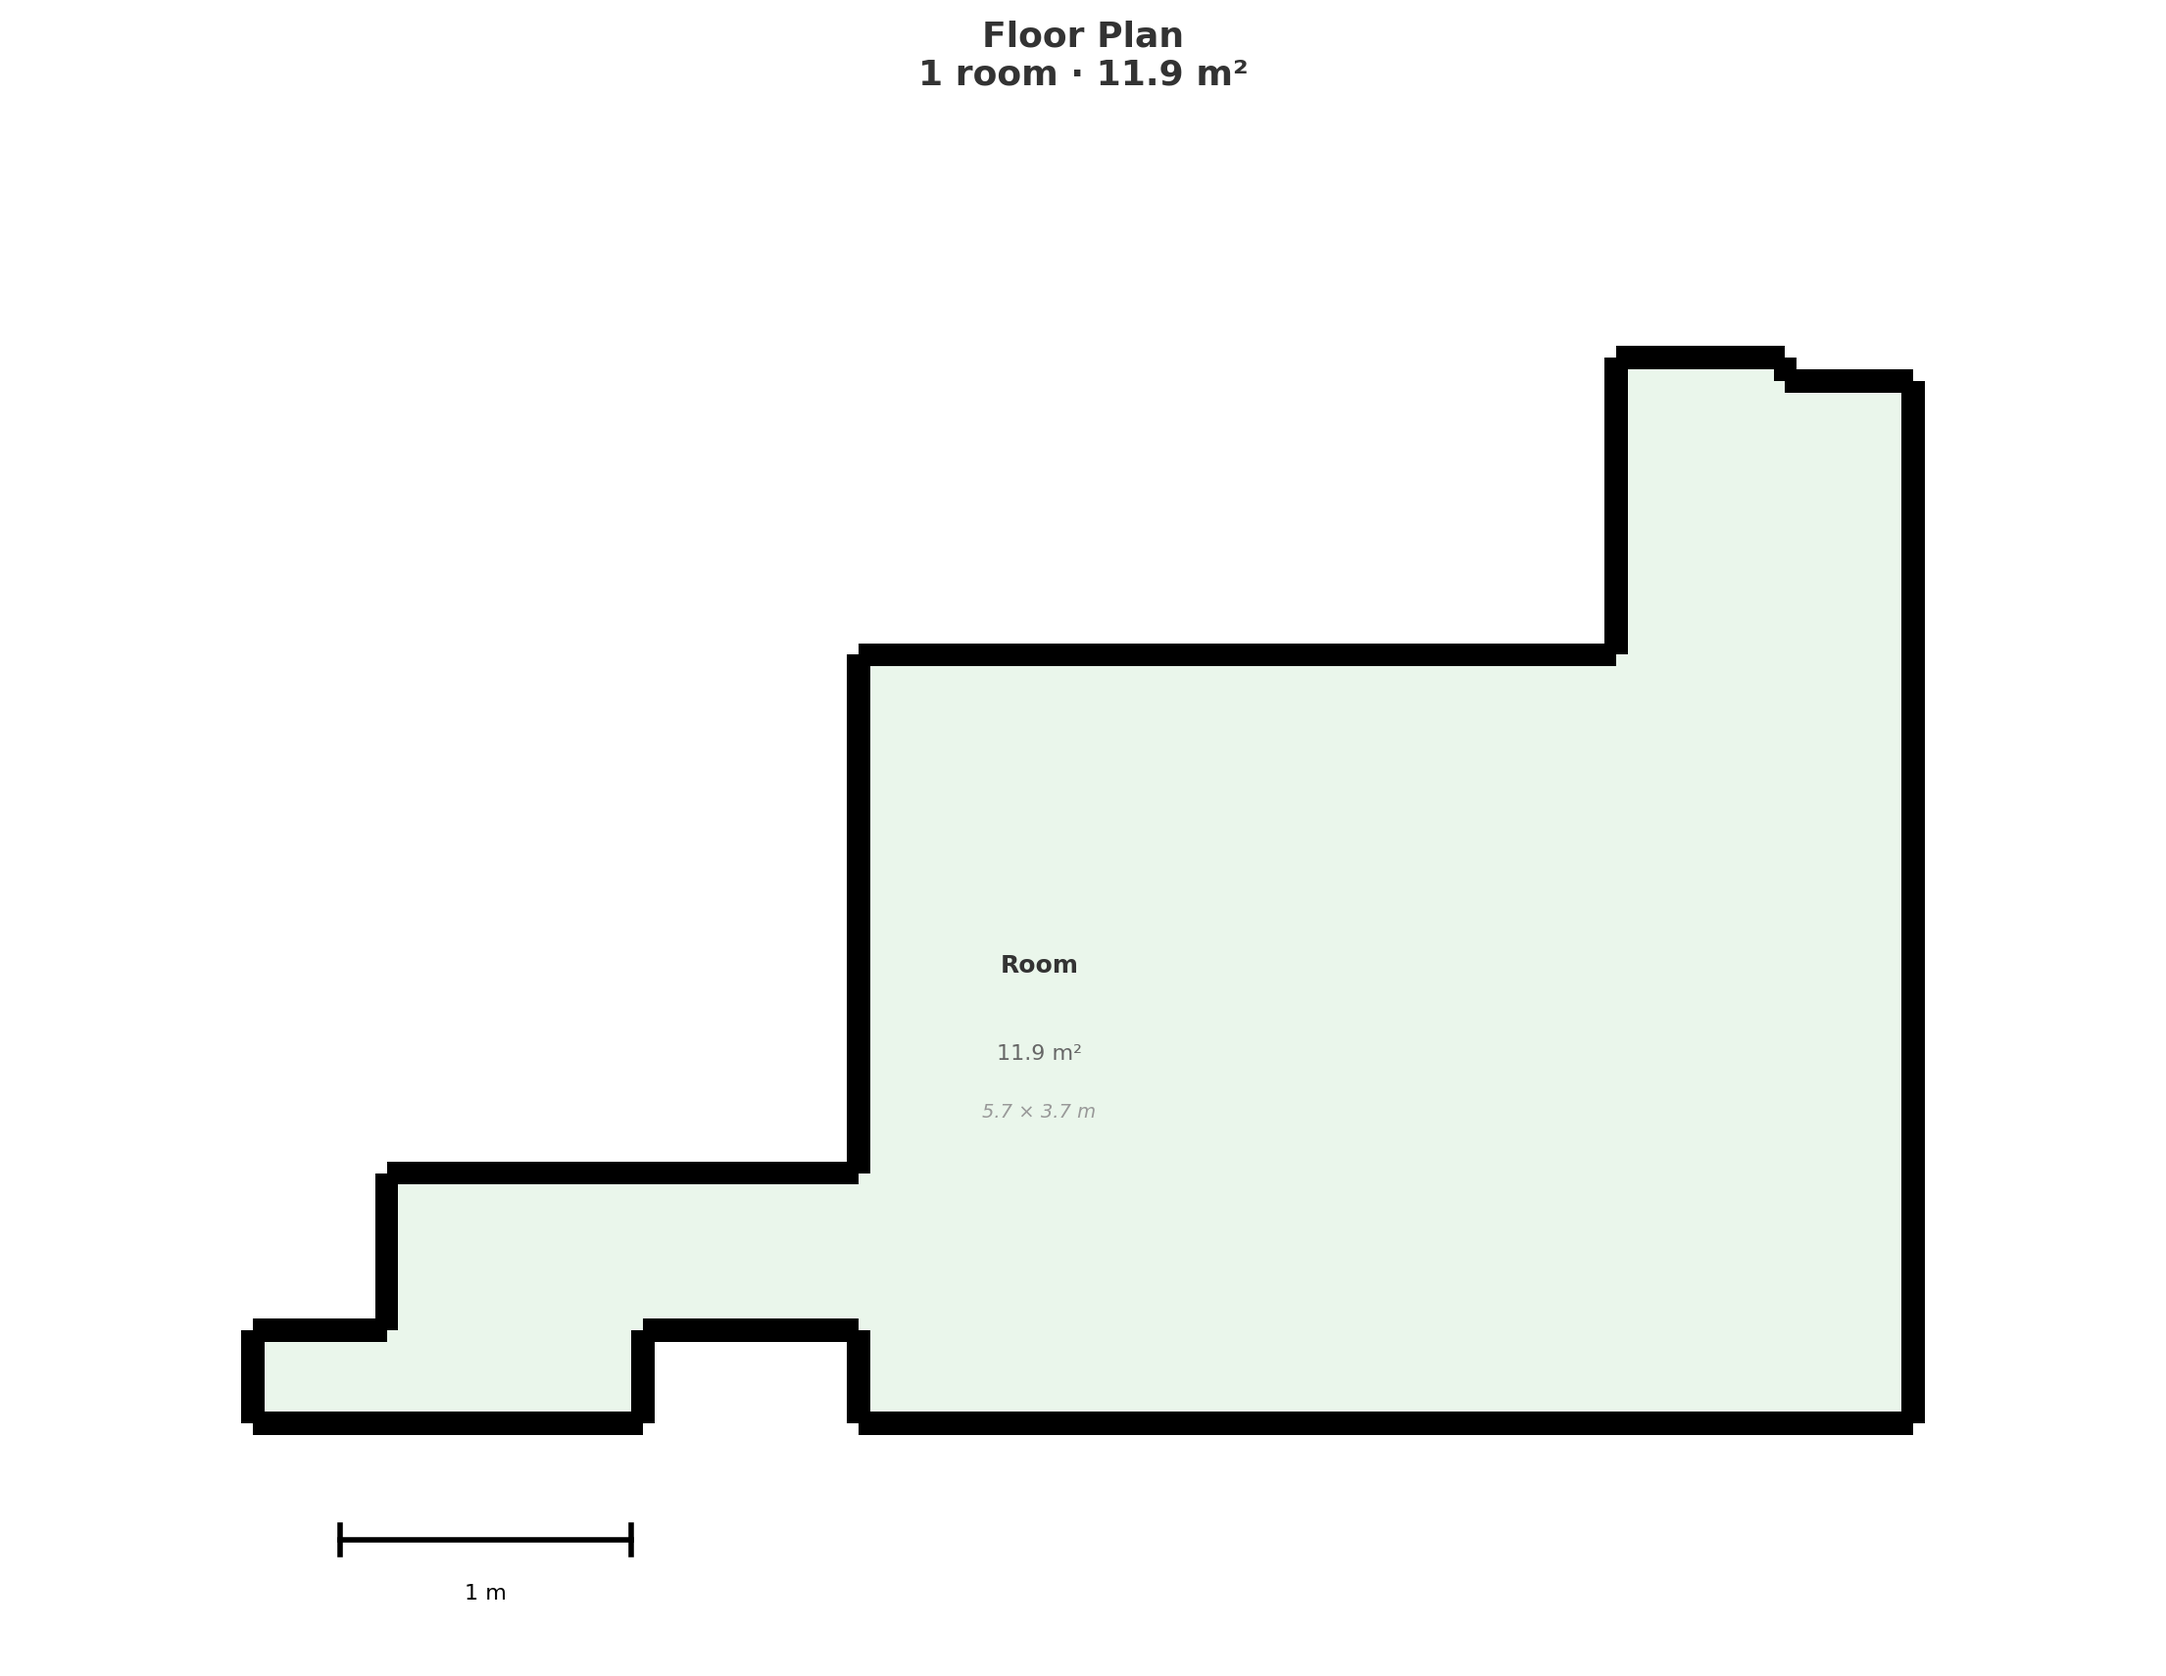
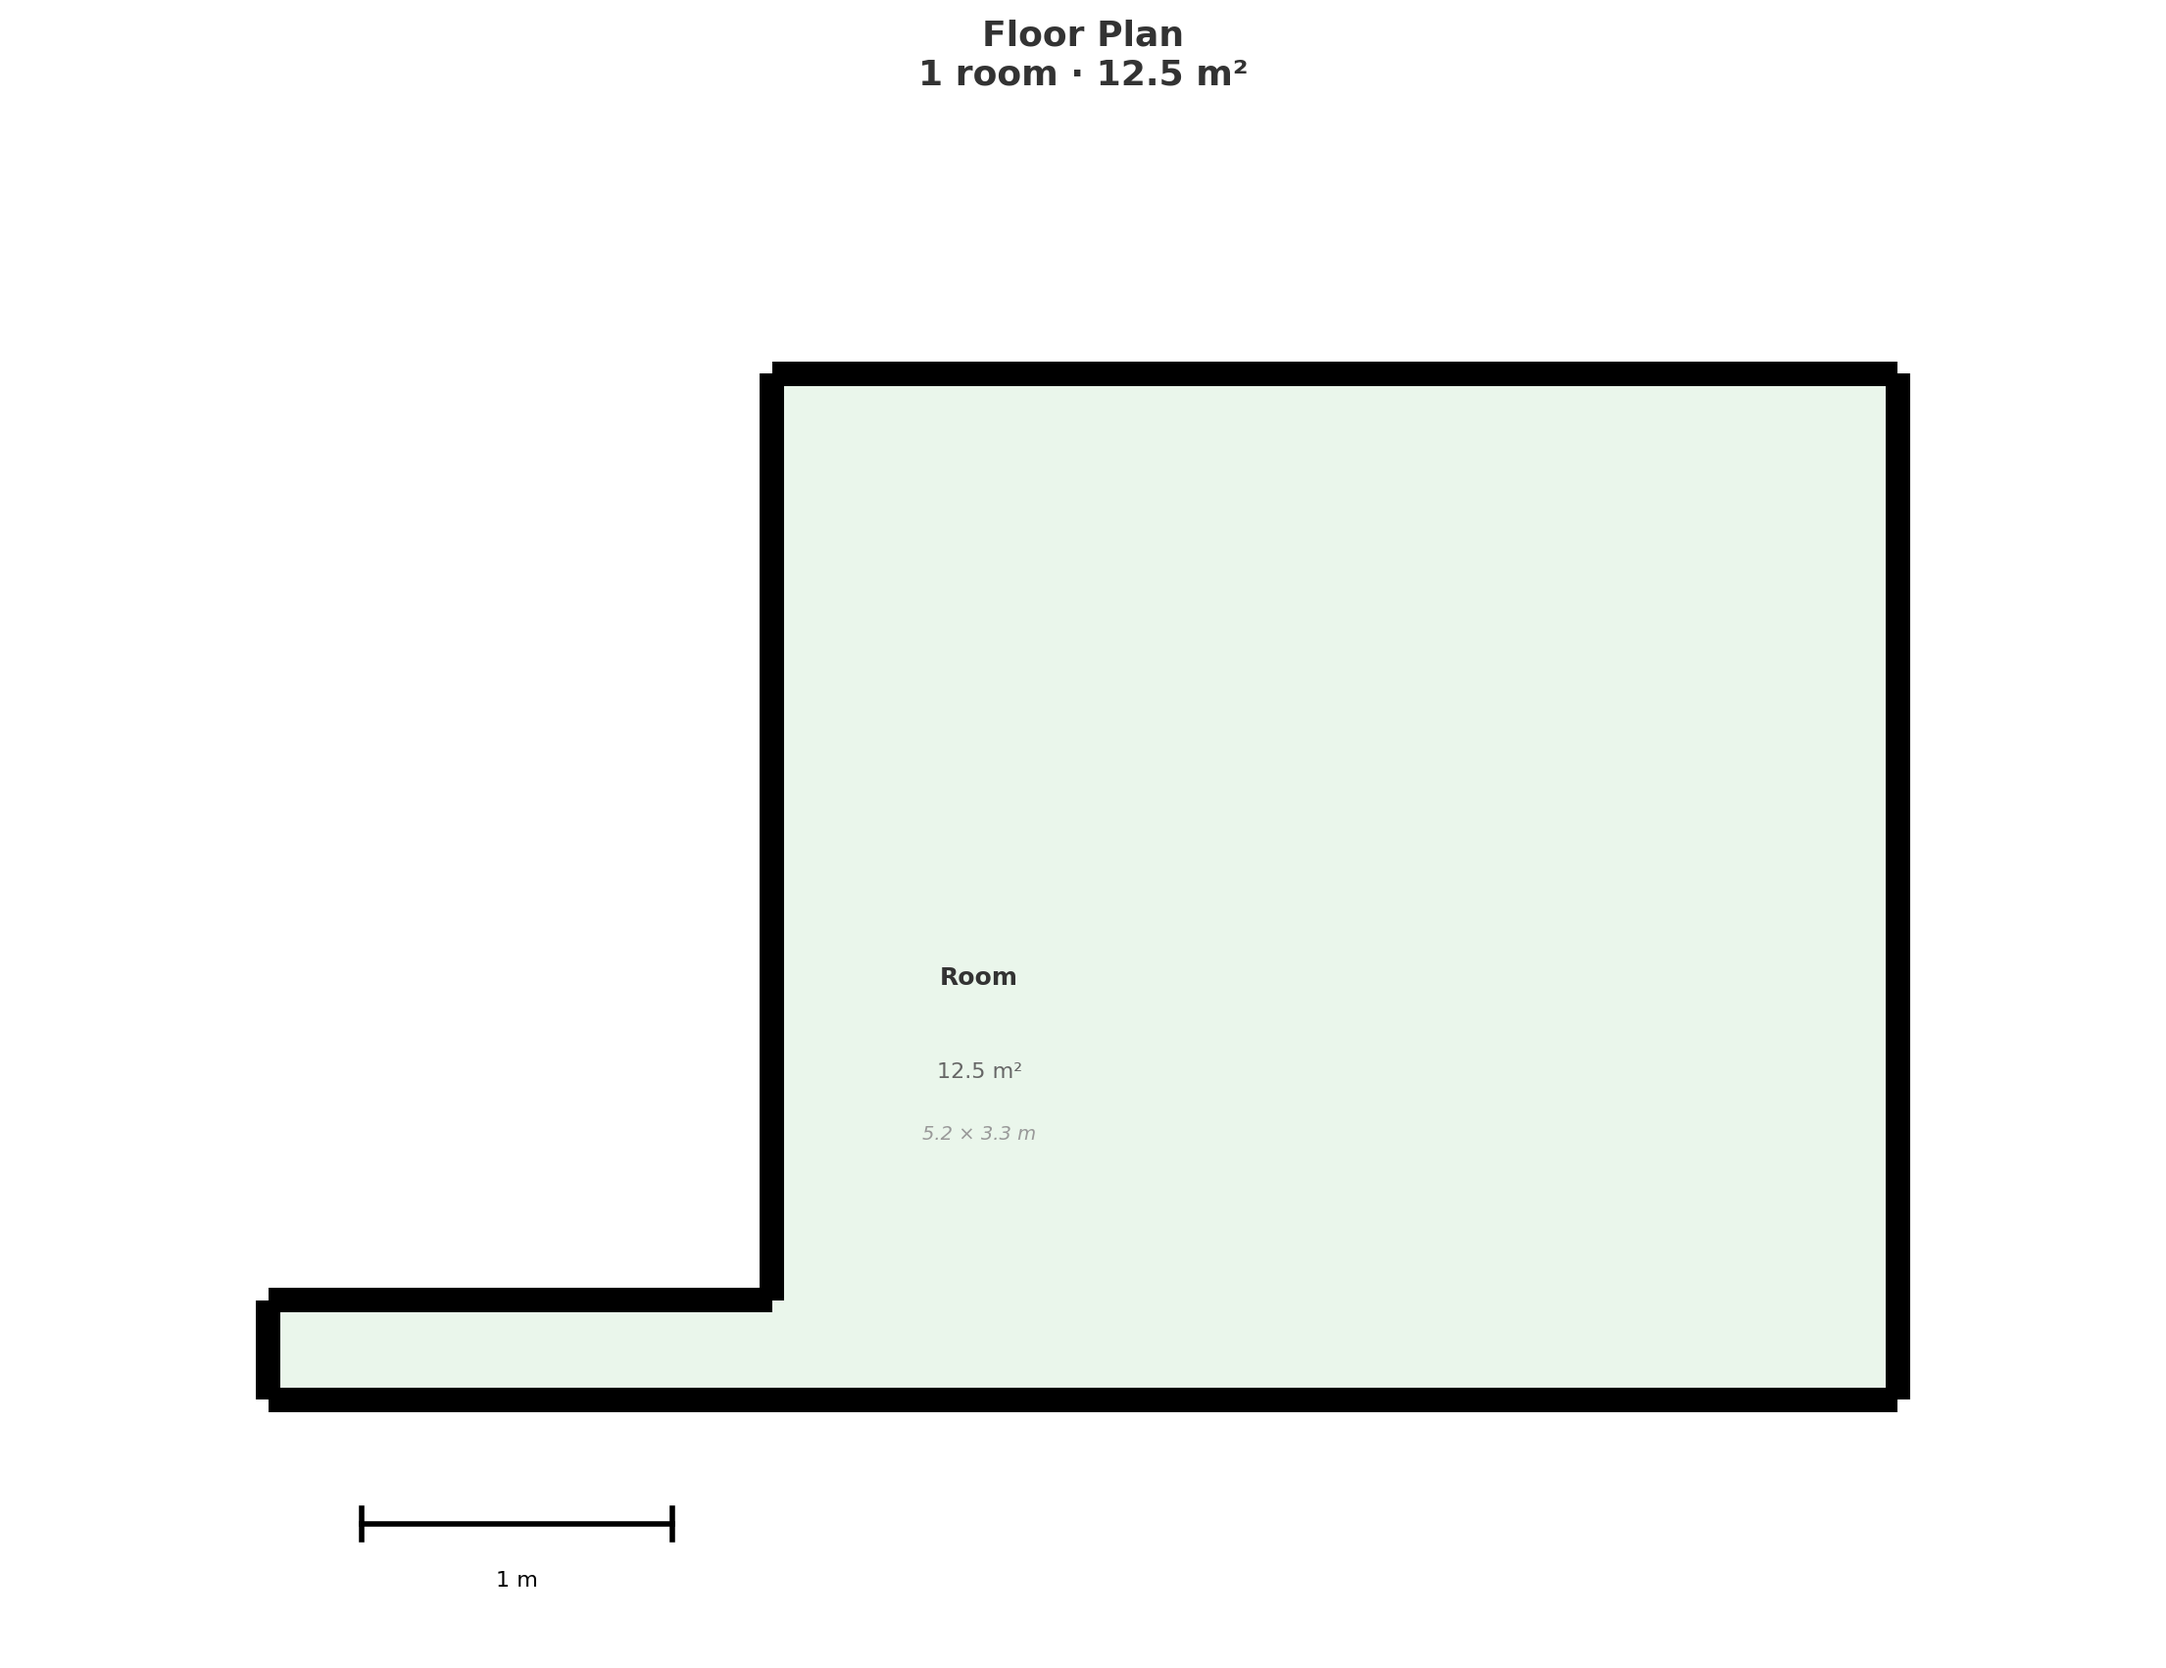
v32: clean L-shape detection for single rooms
Single room: L-shape via quadrant density analysis → 6v polygon, 12.5m²
Multiroom: unchanged (3R+1H+1C, 34.7m²)
Both modes auto-detected based on mask area threshold (20m²)

diff --git a/research/v32_strip_merge.py b/research/v32_strip_merge.py
@@ -424,6 +424,37 @@ def make_rectilinear(poly):
         result.append(curr)
     return result
 
+def simplify_polygon(poly, min_edge=0.4):
+    """Remove short edges by merging vertices."""
+    if len(poly) < 4:
+        return poly
+    changed = True
+    while changed and len(poly) > 3:
+        changed = False
+        new_poly = []
+        skip = set()
+        for i in range(len(poly)):
+            if i in skip:
+                continue
+            j = (i + 1) % len(poly)
+            dx = abs(poly[j][0] - poly[i][0])
+            dz = abs(poly[j][1] - poly[i][1])
+            edge_len = max(dx, dz)  # rectilinear distance
+            if edge_len < min_edge and len(poly) - len(skip) > 3:
+                # Merge: keep the coordinate that maintains rectilinearity
+                # with the previous and next edges
+                prev = poly[(i - 1) % len(poly)]
+                nxt = poly[(j + 1) % len(poly)]
+                # Keep the vertex that's more aligned with its neighbors
+                new_poly.append([poly[j][0] if abs(poly[j][0] - nxt[0]) < 0.01 else poly[i][0],
+                                 poly[j][1] if abs(poly[j][1] - nxt[1]) < 0.01 else poly[i][1]])
+                skip.add(j)
+                changed = True
+            else:
+                new_poly.append(poly[i])
+        poly = new_poly
+    return poly
+
 def remove_collinear(poly):
     if len(poly) < 3: return poly
     cleaned = [poly[0]]
@@ -807,39 +838,77 @@ def main():
         rooms_data = extract_and_merge_rooms(cut_mask, density_img, x_min, z_min, cs,
                                               x_walls, z_walls, valid_x, valid_z, target_rooms=5)
     else:
-        # Single room mode — use entire mask
+        # Single room mode — use mask to detect room shape
         print("Single room mode — no cuts")
         valid_x, valid_z = [], []
-        mask_u8 = room_mask.astype(np.uint8)
         
-        # Build single room polygon using contour
-        contours, _ = cv2.findContours(mask_u8, cv2.RETR_EXTERNAL, cv2.CHAIN_APPROX_SIMPLE)
-        if contours:
-            contour = max(contours, key=cv2.contourArea)
-            epsilon = max(3, int(0.15 / cs))
-            approx = cv2.approxPolyDP(contour, epsilon, True)
-            
-            def snap(val, positions, max_snap=0.25):
-                if len(positions) == 0: return val
-                dists = np.abs(np.array(positions) - val)
-                idx = np.argmin(dists)
-                return float(positions[idx]) if dists[idx] < max_snap else val
-            
-            poly = []
-            for pt in approx.reshape(-1, 2):
-                wx = snap(x_min + pt[0] * cs, x_walls)
-                wz = snap(z_min + pt[1] * cs, z_walls)
-                poly.append([wx, wz])
-            
-            poly = make_rectilinear(poly)
-            poly = remove_collinear(poly)
+        # Find room bounds using density percentiles (more accurate than mask extent)
+        dr, dc = np.where(density_img > 0)
+        if len(dr) > 0:
+            x0 = x_min + np.percentile(dc, 1) * cs
+            x1 = x_min + np.percentile(dc, 99) * cs
+            z0 = z_min + np.percentile(dr, 1) * cs
+            z1 = z_min + np.percentile(dr, 99) * cs
         else:
             rows, cols = np.where(room_mask)
             x0 = x_min + cols.min() * cs
             x1 = x_min + cols.max() * cs
             z0 = z_min + rows.min() * cs
             z1 = z_min + rows.max() * cs
-            poly = [[x0,z0],[x1,z0],[x1,z1],[x0,z1]]
+        
+        def snap(val, positions, max_snap=0.25):
+            if len(positions) == 0: return val
+            dists = np.abs(np.array(positions) - val)
+            idx = np.argmin(dists)
+            return float(positions[idx]) if dists[idx] < max_snap else val
+        
+        x0 = snap(x0, x_walls); x1 = snap(x1, x_walls)
+        z0 = snap(z0, z_walls); z1 = snap(z1, z_walls)
+        
+        # Check if L-shaped: look at fill ratio of bounding box
+        rows, cols = np.where(room_mask)
+        bbox_area = (cols.max()-cols.min()+1) * (rows.max()-rows.min()+1)
+        fill_ratio = len(rows) / max(1, bbox_area)
+        
+        if fill_ratio > 0.80:
+            # Nearly rectangular
+            poly = [[x0,z0], [x1,z0], [x1,z1], [x0,z1]]
+        else:
+            # L-shaped: find the missing corner quadrant
+            mid_x_px = (cols.min() + cols.max()) // 2
+            mid_z_px = (rows.min() + rows.max()) // 2
+            
+            # Check density in each quadrant
+            quads = {
+                'TL': room_mask[mid_z_px:rows.max()+1, cols.min():mid_x_px+1].sum(),
+                'TR': room_mask[mid_z_px:rows.max()+1, mid_x_px:cols.max()+1].sum(),
+                'BL': room_mask[rows.min():mid_z_px+1, cols.min():mid_x_px+1].sum(),
+                'BR': room_mask[rows.min():mid_z_px+1, mid_x_px:cols.max()+1].sum(),
+            }
+            empty_quad = min(quads, key=quads.get)
+            
+            # Find step position by scanning for density drop
+            mid_x = snap(x_min + mid_x_px * cs, x_walls)
+            mid_z = snap(z_min + mid_z_px * cs, z_walls)
+            
+            # Try to find more precise step using wall positions
+            for xw in sorted(x_walls):
+                if x0 + 0.3 < xw < x1 - 0.3:
+                    mid_x = xw; break
+            for zw in sorted(z_walls):
+                if z0 + 0.3 < zw < z1 - 0.3:
+                    mid_z = zw; break
+            
+            if empty_quad == 'TL':
+                poly = [[x0,z0],[x1,z0],[x1,z1],[mid_x,z1],[mid_x,mid_z],[x0,mid_z]]
+            elif empty_quad == 'TR':
+                poly = [[x0,z0],[x1,z0],[x1,mid_z],[mid_x,mid_z],[mid_x,z1],[x0,z1]]
+            elif empty_quad == 'BL':
+                poly = [[mid_x,z0],[x1,z0],[x1,z1],[x0,z1],[x0,mid_z],[mid_x,mid_z]]
+            elif empty_quad == 'BR':
+                poly = [[x0,z0],[mid_x,z0],[mid_x,mid_z],[x1,mid_z],[x1,z1],[x0,z1]]
+            
+            print(f"  L-shape: empty={empty_quad}, fill={fill_ratio:.2f}, step=({mid_x:.2f},{mid_z:.2f})")
         
         area = compute_polygon_area(poly) if len(poly) >= 3 else np.sum(room_mask) * cs * cs
         rooms_data = [{
